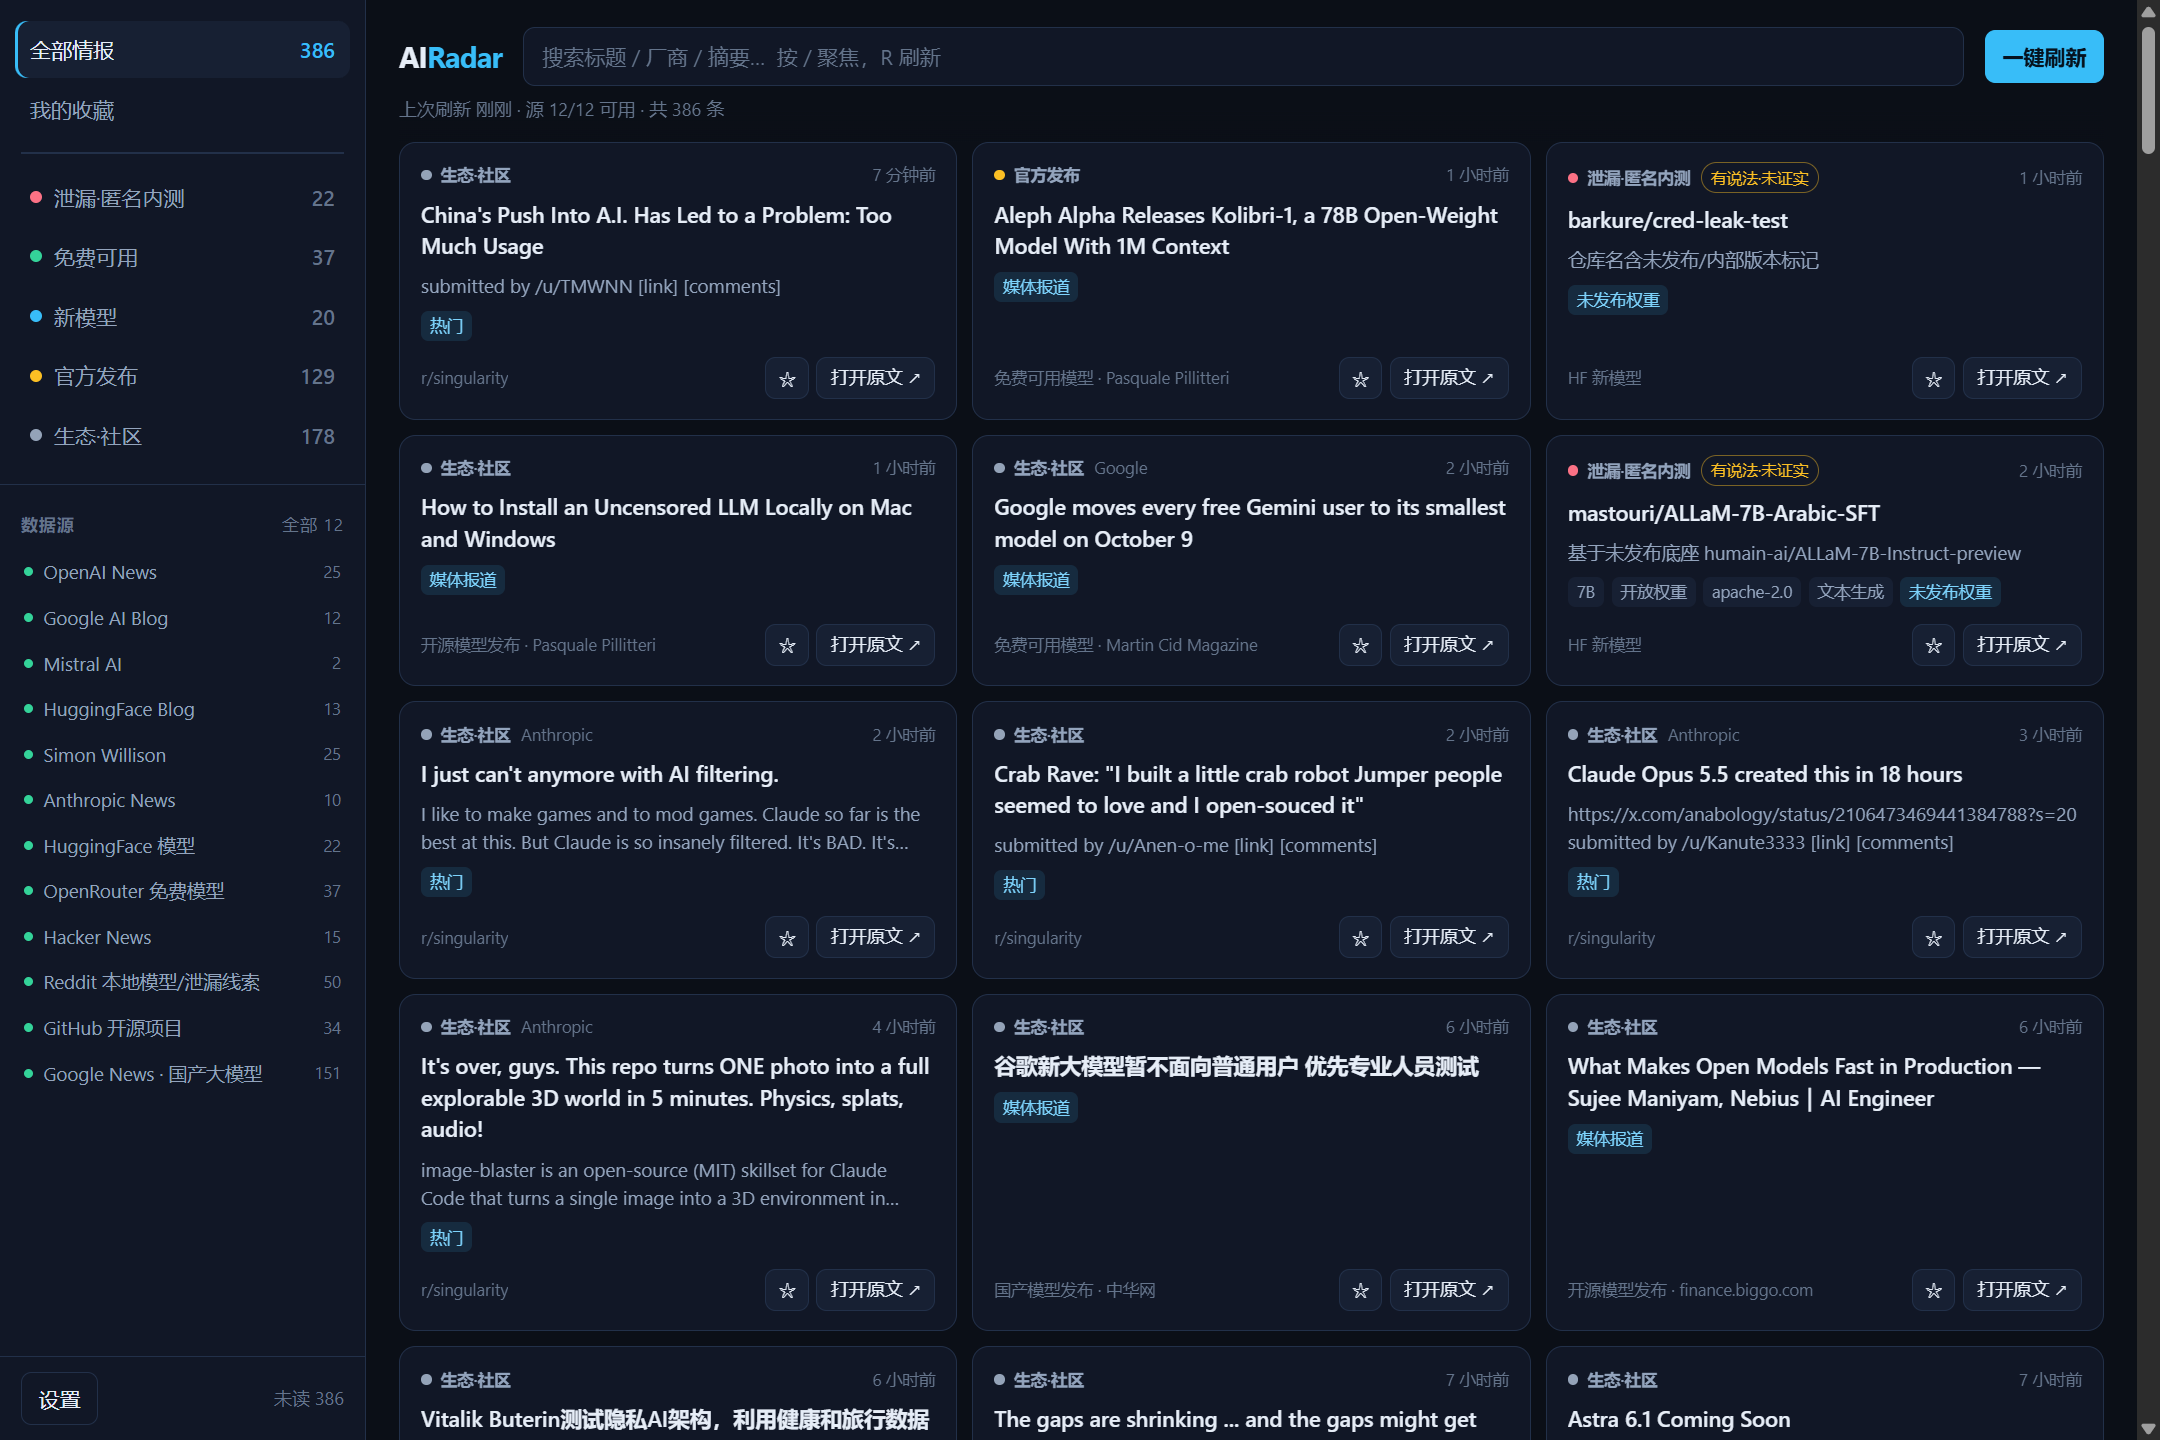
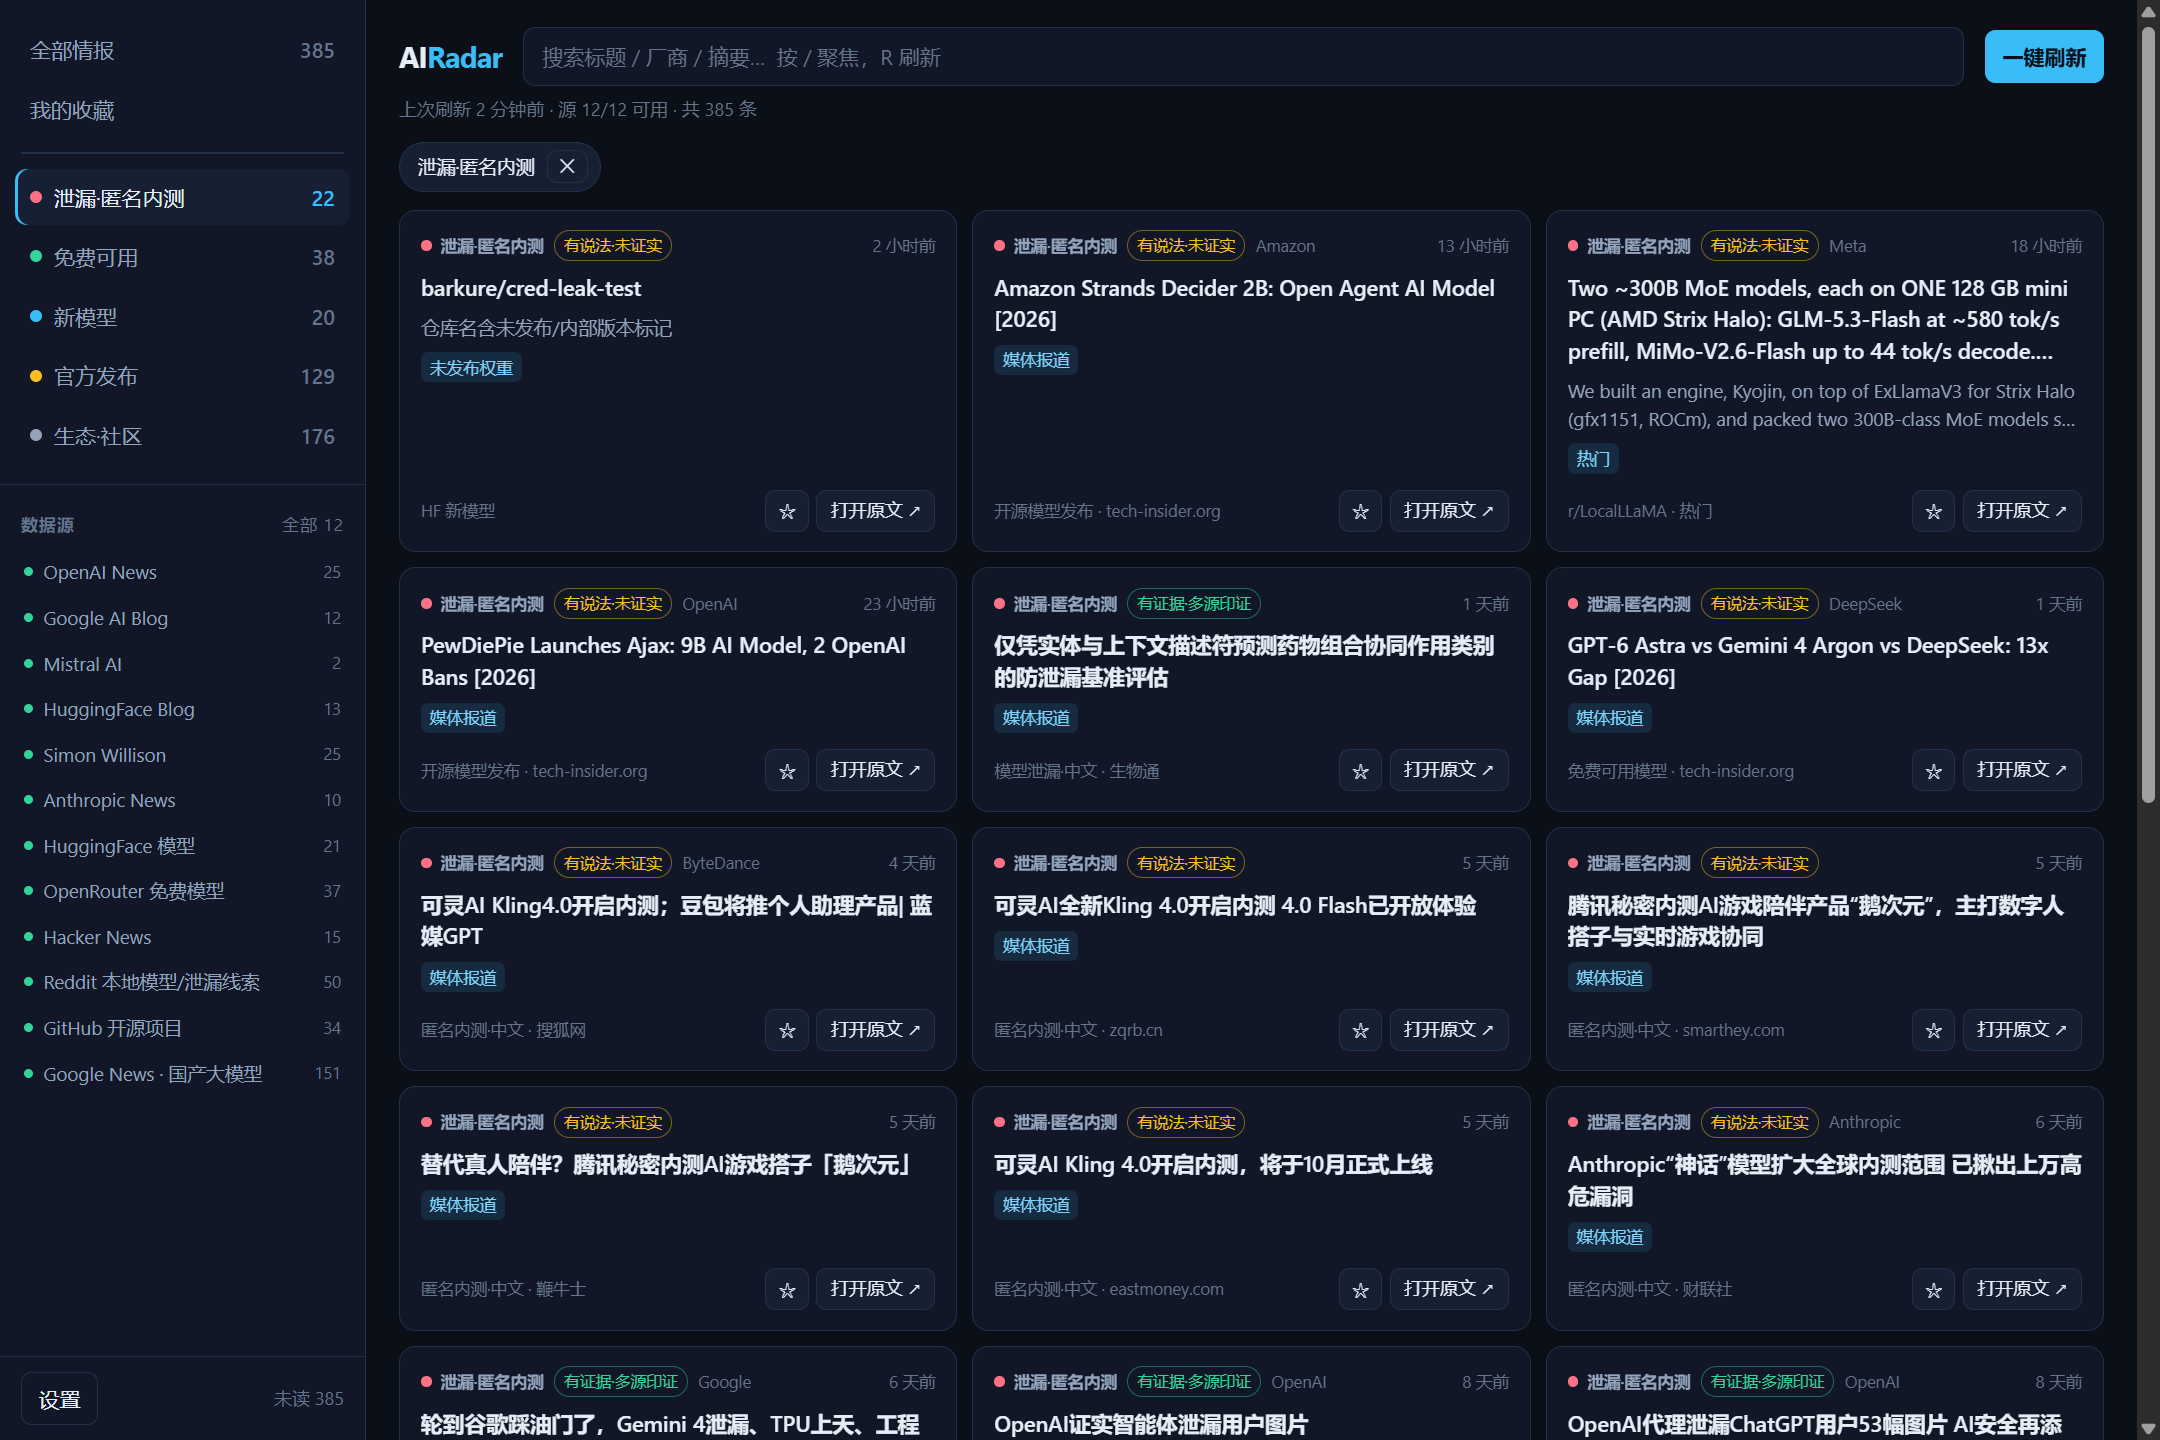
docs: README 配图换成只截「泄漏·匿名内测」分类
原因：原图是「全部情报」视图，包含 r/singularity 等社区的实时聚合内容。
仓库即将转公开，这类内容不受控，而它是所有人第一眼看到的东西。

新图只截泄漏分类，22 张卡片全部是该类条目，并且三档可信度都出现了：
- 绿色「有证据·多源印证」
- 琥珀「有说法·未证实」
- HuggingFace 侧的「未发布权重」标记

内容也更贴产品定位：某模型开启内测但未对外开放、厂商被曝智能体泄露用户图片、
Anthropic 扩大全球内测范围等。

capture-screenshot.mjs 新增第4 个参数指定分类：
  node scripts/capture-screenshot.mjs docs/screenshot.png 1.5 leak
可选 all / leak / free / release / vendor / ecosystem

diff --git a/README.md b/README.md
@@ -17,10 +17,12 @@ Tauri 2 + React 桌面应用 · 托盘常驻 · 单轮约 2 秒拉完 380+ 条
 
 </div>
 
-![界面截图](docs/screenshot.png)
+![泄漏·匿名内测分类的真实运行截图](docs/screenshot.png)
 
-> 截图摄于桌面版真实运行状态：左侧为分类与数据源健康度，右侧为情报卡片流。
-> 红色「泄漏·匿名内测」分类带可信度标记（`未发布权重` / `有说法·未证实` / `有证据·多源印证`）。
+> 桌面版真实运行状态，只截「泄漏·匿名内测」这一个分类——这是本应用最有辨识度的部分。
+> 每张卡片带**可信度分级**：绿色「有证据·多源印证」、琥珀色「有说法·未证实」，
+> 以及来自 HuggingFace 的「未发布权重」标记。左侧为分类计数与 12 个源的实时健康度。
+> 图中均为该分类的实际条目（模型开启内测但未对外开放、厂商被曝智能体泄露用户图片等）。
 
 ---
 
@@ -124,7 +126,7 @@ winget install --id Rustlang.Rustup -e --source winget
 ```bash
 npm run app:cdp                            # 带 WebView2 调试端口启动
 node scripts/cdp-probe.mjs                 # 读运行中页面的真实状态（源成功率、DOM、报错）
-node scripts/capture-screenshot.mjs out.png  # 从桌面端 WebView 直接截图
+node scripts/capture-screenshot.mjs docs/screenshot.png 1.5 leak  # 只截泄漏分类
 ```
 
 正式配置**不带**调试端口（`src-tauri/tauri.conf.json`），
